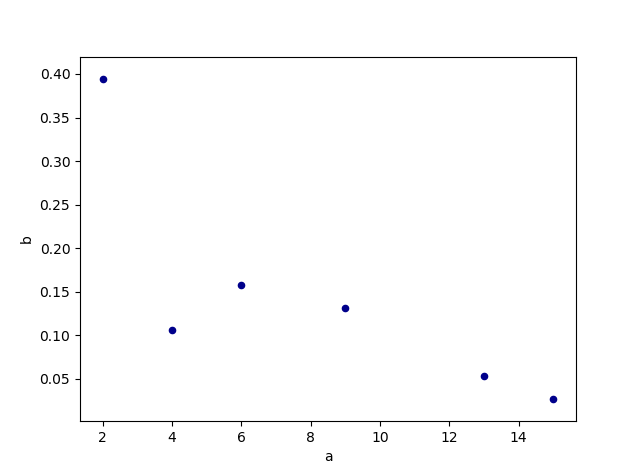
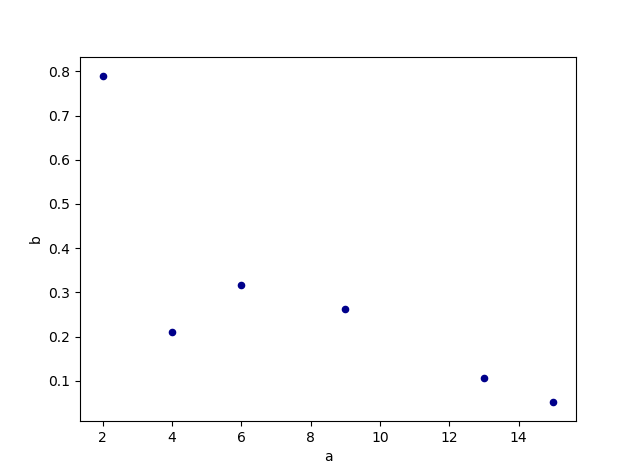
filter zero pic

diff --git a/Draw_pic/draw_win_percent_pic.py b/Draw_pic/draw_win_percent_pic.py
@@ -14,7 +14,7 @@ from matplotlib.ticker import FuncFormatter
 data=pd.read_excel(r'C:\Users\Pasto\Desktop\etar.xlsx',sheet_name='Sheet3')
 data.rename(columns={'赛事':'A','独赢':'B','全场 - 让球':'C','全场 - 大小':'D','单双':'E','胜负':'F'},inplace=True)
 data=data[['A','B','C','D','E','F']]
-all=data['F'][data.F>=-1].value_counts()
+all=data['F'][data.F>=-1].value_counts()#统计场次数
 print(all[1])
 #data=data[['A','B','F']][data.F==1]
 #data=data[['B','F']][(data.F==1)&(data.B>1)&(data.B<1.24)]
@@ -38,12 +38,15 @@ count2=data['B'][(data.F==1)&(data.B>0)&(data.B<1)].value_counts()
 # print(count4[1])
 i=1
 j=1.10
+
+all1=all[1]/2
+
 # print("kaishi")
 lll=[]
-for l in range(1,21):
+for l in range(1,21):#创建对应赔率段的数字
     lll.append(l)
 kkk=[]
-for z in range(20):
+for z in range(20):#循环计算胜率
     #print('precent1: {:.1f}'.format(i),'precent2: {:.1f}'.format(j))
     count5=data['F'][(data.F==1)&(data.B>i)&(data.B<j)].value_counts()
     if len(count5)==0:
@@ -53,19 +56,19 @@ for z in range(20):
         continue
     #jie_guo='{:.3f}'.format(count5[1]/all[1]*100)#转百分数
     #jie_guo="%.3f" % (count5[1]/all[1] * 100)
-    jie_guo=count5[1]/all[1]
+    jie_guo=count5[1]/all1
     kkk.append(jie_guo)
     #print(jie_guo)
     i=j
     j=j+0.04
 #print(kkk)
 #ppp=[lll,kkk]
-ccc={
-    'a':lll,
-    'b':kkk
+ccc={       #列表转为字典
+    'a':lll,#lll设为a列
+    'b':kkk#kkk设为b列
 }
 xintu=pd.DataFrame(ccc)
-xintu=xintu[['a','b']][xintu.b!=0]
+xintu=xintu[['a','b']][xintu.b!=0]#筛选出非0点
 print(xintu)
 '''
 去掉0点
